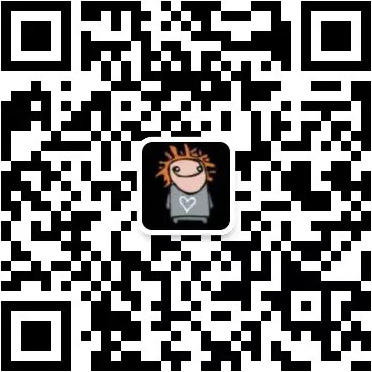
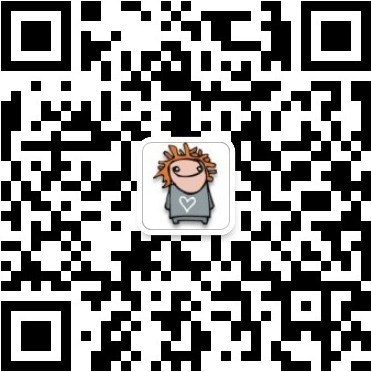
update wechar qrcode

diff --git a/_includes/sidebar.html b/_includes/sidebar.html
@@ -52,18 +52,18 @@
     </div>
 
     <div class="side-item">
-        <div class="side-item-head">交流Q群</div>
+        <div class="side-item-head">关注公众号</div>
+        <div class="side-item-body">
+            <img src="/static/images/wechat-qrcode.jpg" class="qrcode"/>
+        </div>
+    </div>
+
+    <div class="side-item">
+        <div class="side-item-head">加入QQ群</div>
         <div class="side-item-body">
             <img src="/static/images/qqgroup-qrcode.jpg" class="qrcode"/>
         </div>
     </div>
 	
-	<!--
-	<div class="side-item">
-        <div class="side-item-head">个人微信</div>
-        <div class="side-item-body">
-            <img src="/static/images/wechat-qrcode.jpg" class="qrcode"/>
-        </div>
-    </div>
-	-->
+	
 </div>
